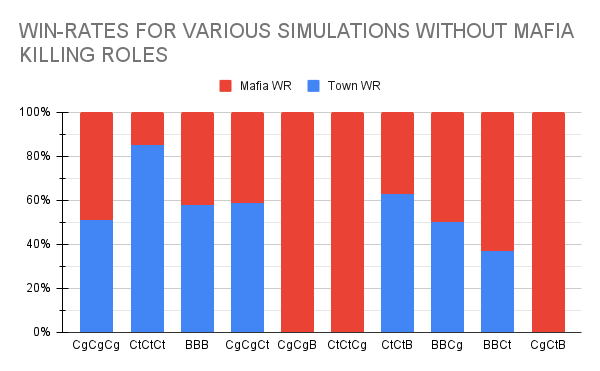
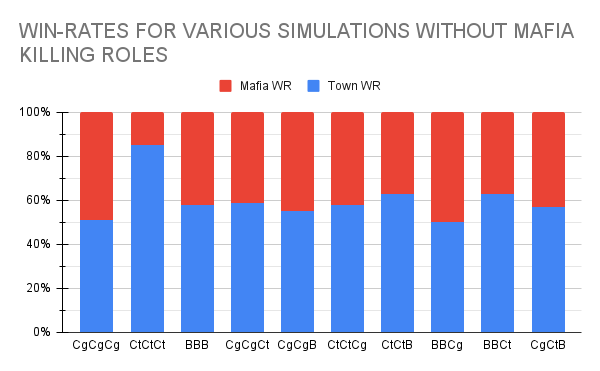
summary and other corrections

Changed region(s): [[0.45, 0.5337, 0.63, 0.9191], [0.78, 0.504, 0.96, 0.9191]]

diff --git a/sections/results.tex b/sections/results.tex
@@ -1,18 +1,33 @@
 \section{Results}\label{sec:results}
-In order to validate our model we ran a test with the recommended
-setup\footnote[1]{1 godfather, 2 mafiosi, 1 sheriff, 1 doctor, 5 villagers} of
-3 mafia members and 7 town members\cite{MafiaRules}. This yielded a win-rate
-for each team of 50\%\ref*{fig:VariousSimulations}. Since this balanced game
-was achieved by following the recommended rules, it seemed that our model
-indeed portrayed real games with some level of accuracy. We then ran
-experiments with a team biased toward the town\footnote{Using one of each town
-    role from appendix \ref{app:A}, against 1 godfather, and 2 mafiosi}. This
-yielded a win-rate of 75\% favouring the town \ref{fig:VariousSimulations}.
-This was expected, further validating the purpose of this paper: How can one
-re-balance the win-rates when facing a powerful town. We then simulated games
-with every possible combination of mafia roles, against this baseline of a
-powerful town. The only consistent role on the mafia team was the presence of 1
-godfather. Below are the results:
+The original rules for the mafia game excluded roles altogether, instead 
+preferring the simplest version of the game consisting of two teams, the mafia 
+and the town. Using these rules, it was recommended to have 1 mafia member per. 
+3 players, leading to a game setup of 3 mafia members and 7 town 
+members\cite{MafiaRules}. Using this game setup in our simulation leads to the 
+mafia having a clear advantage, as can be seen on figure 
+\ref{fig:VariousSimulations}. The is likely due to the expanded killing 
+capabilities in the form of the mafioso and the godfather, relative to a 
+limited and a expansion of the town capabilities, in the form of the sheriff 
+and the doctor. \\
+Should one instead reduce the number of mafia members to 2, and as a result 
+increase the number of town members to 8, the win-rates for the two teams 
+equalize significantly more, but still being to the mafias favour (MGSD \& 
+MGS).\\
+Getting to the subject of this report: How a mafia fares against a powerful 
+town\footnote{A powerful town being defined as one that uses all roles 
+from 
+appendix \ref{app:A}.}, one can look at all of the columns after the "Powerful 
+Town" label on the figure (\ref{fig:VariousSimulations}). The only consistent 
+feature of the mafia teams represented by these columns are the presence of 1 
+godfather on each team. They display that, against a powerful town, many 
+configurations of mafia-roles are quite balanced, resulting in mostly a 50/50 
+win-rate for each team. The main exceptions for this is in regards to 
+killing-heavy compositions the most significant of which being MMG, with a 
+win-rate of 74\% for the mafia. Furthermore, it seems that one of the only 
+roles that can somewhat replace a mafioso in mixed-roles compositions in the 
+consigliere, as such compositions (CgCtG \& CgBG) fare comparably to ones 
+including a mafioso. \\
+Below are all of the results:
 \begin{figure}[H]
     \includegraphics[width=1\linewidth]{figures/Winrates}
     \caption{\\Graph of the win-rate of various simulated game compositions.\\

diff --git a/sections/summary.tex b/sections/summary.tex
@@ -1,0 +1,26 @@
+\onecolumn
+\begin{center}
+	\section*{Summary}\label{sec:summary}
+\end{center}
+This paper investigates the disparity between win-rates of opposing teams in 
+social deduction games with an abundance of special roles. To do  this, an 
+approach based on epistemic logic and common sense is used to create a 
+simulation that emulates physical games of this type. The foundation of the 
+game is based on other approaches within the same field, combining the ability 
+of agents to inquire other agents for information, as well as giving them the 
+ability to, naively, keep track of truths and lies. \\
+The field of epistemology lays the groundwork of inference in the simulation, 
+as well as providing a formal framework for the description of behaviour 
+reliant on logical formulae within the simulation. \\
+The simulation was built with a truth-table approach, resulting in a heavy 
+computational burden, but with the benefit of being easy to understand 
+intuitively. \\
+The simulation was run with a multitude of different team compositions, which 
+resulted in the revelation that the most important factor to consider when 
+aiming for the creation of balanced social deduction games is the ratio of 
+mafia members to town members. Secondly, it was found that killing-heavy mafia 
+teams perform better than any other compositions. Lastly, excluding such teams 
+showed 
+that teams with the ability to acquire new information quickly performed better 
+than those who could stop the town from performing their nightly actions. 
+\twocolumn

diff --git a/sections/implementation.tex b/sections/implementation.tex
@@ -66,7 +66,7 @@ tell the truth, due to townspeople having no incentive to lie. This ranking of
 worlds will be useful going forward.\\ Almost all choices in the simulation is
 in some way related to the amount of marks in their active worlds. The
 following pseudocode relates to how an agent chooses what communicative action
-to perform \ref{fig:GetHighInfoGainP} \ref{fig:GetNonAccused}
+to perform \ref{fig:GetHighInfoGainP}, \ref{fig:GetNonAccused}, and
 \ref{fig:GetMostContradictory}. The selection of a target for these actions is
 based on maximizing the potential information gain, algorithm
 \ref{fig:GetNonAccused} identifying players who haven't yet been accused.

diff --git a/master.tex b/master.tex
@@ -2,6 +2,7 @@
 \input{preamble.tex}
 
 \begin{document}
+\input{sections/summary}
 \title{Evening the Odds:\\ The Impact of Town-Opposed Roles in Social Deduction 
 Games\\ \small An experimental analysis of the impact of various 
 town-opposed roles in social deduction games, using epistemology}
